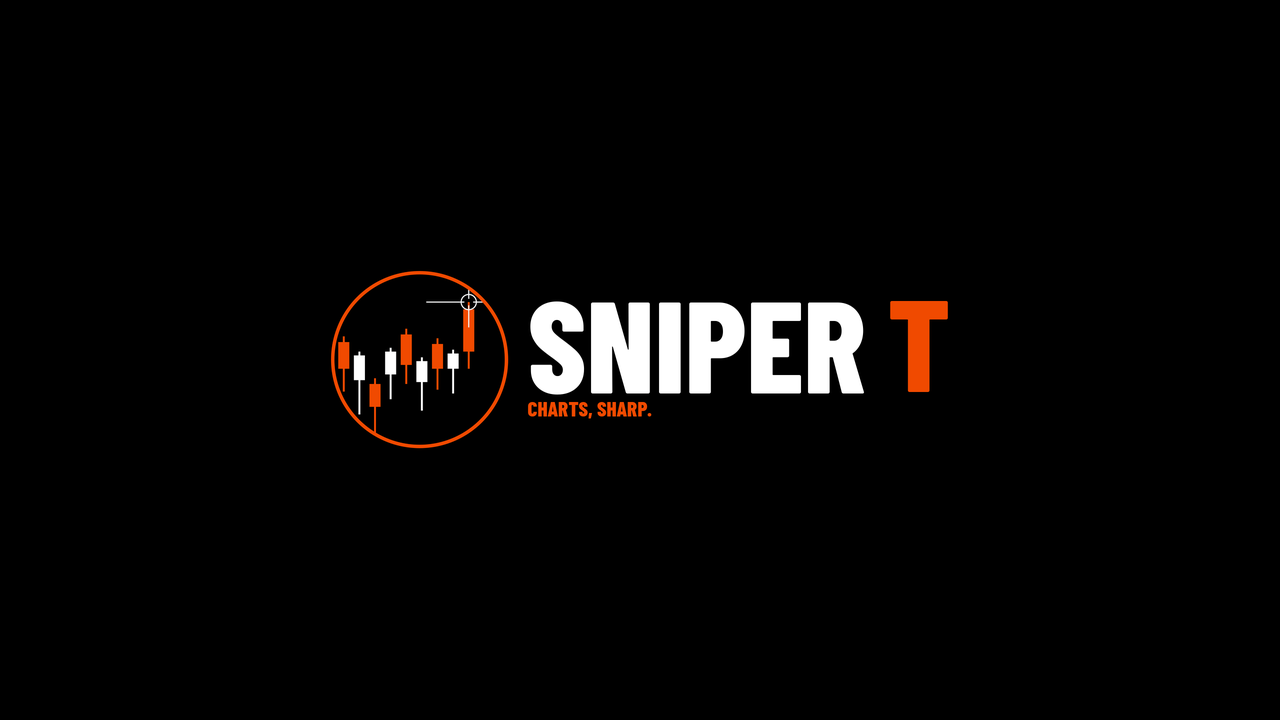
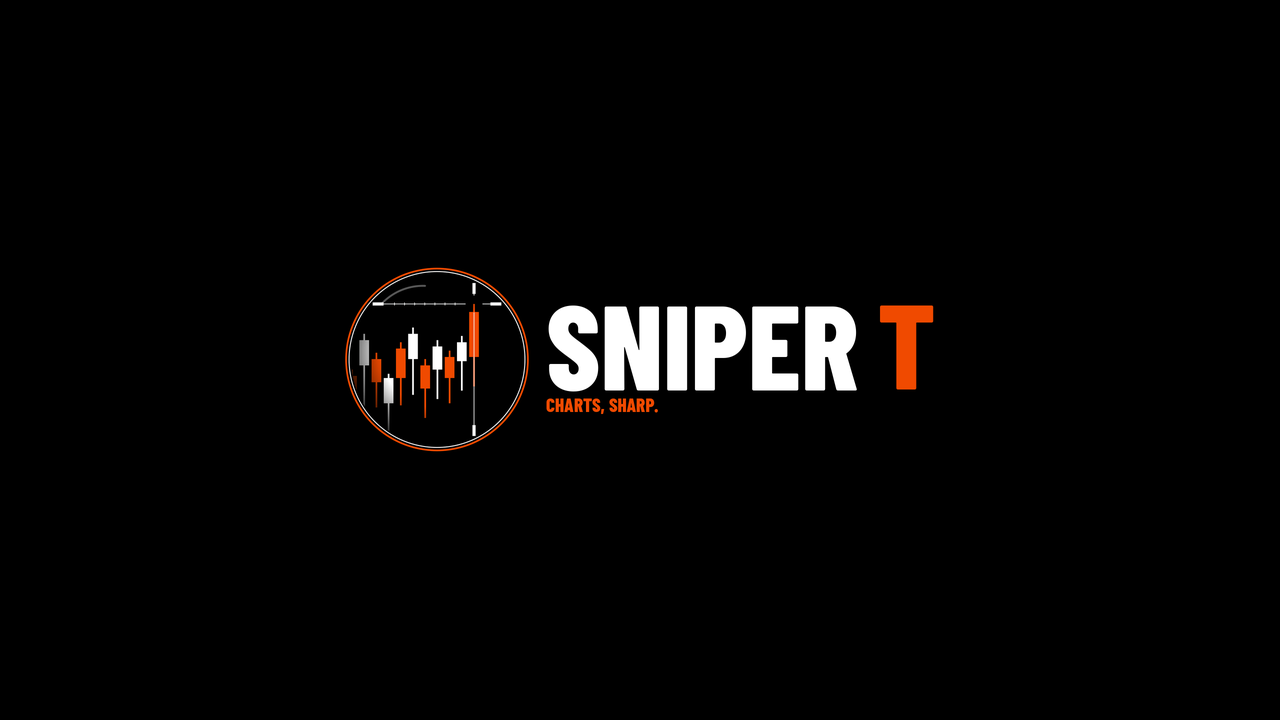
Turn the Sniper T mark into a scope lens
Frame the choppy candles in a ring with a full-lens reticle aimed at the tall last candle.

Changed region(s): [[0.25, 0.3667, 0.75, 0.6417]]

diff --git a/index.html b/index.html
@@ -67,7 +67,7 @@
                 sizes="(min-width: 900px) 520px, 100vw"
                 width="2560"
                 height="1440"
-                alt="Sniper T. A circular badge of orange and white candlesticks cropped by the circle, with a crosshair on the highest candle, beside the name Sniper T.">
+                alt="Sniper T. A sniper-scope view of orange and white candlesticks, with the crosshair on the tallest candle, beside the name Sniper T.">
             </div>
           </figure>
         </div>
